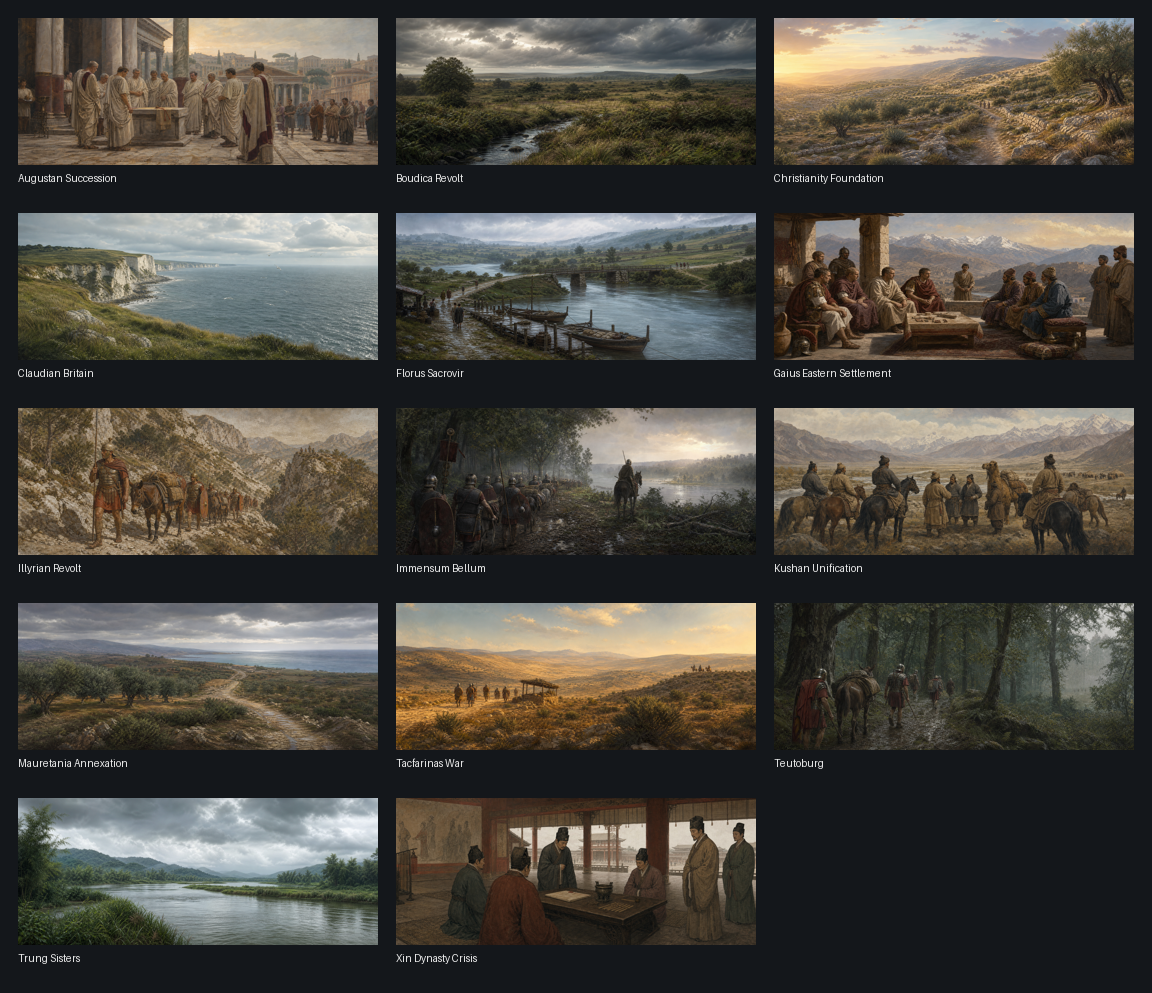
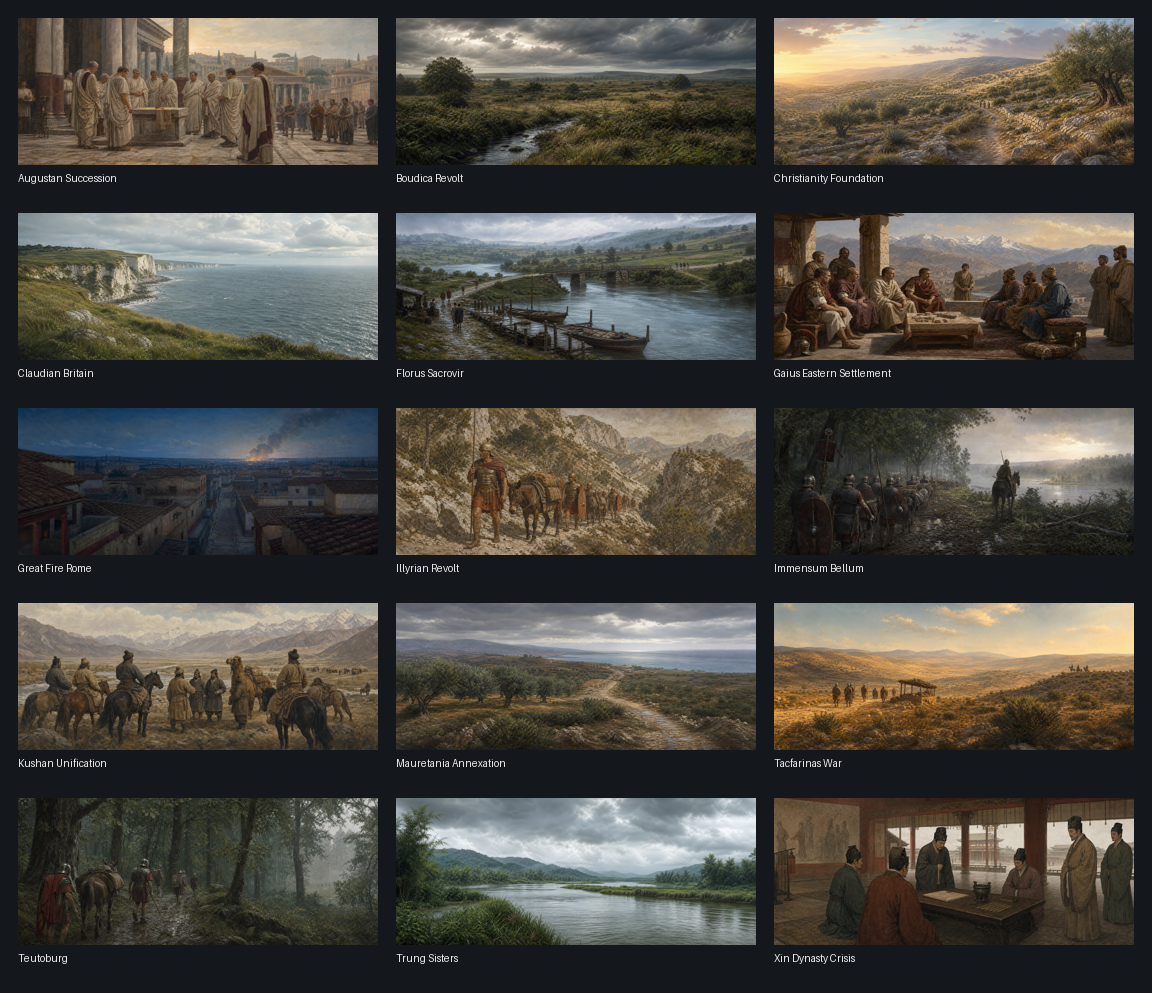
docs(m11): record great fire art

diff --git a/docs/m11/contact_sheet.html b/docs/m11/contact_sheet.html
@@ -6,6 +6,7 @@
     <figure><img src="../../assets_queue/generated/antq_claudian_britain_1080x440.png" alt="Claudian Britain"><figcaption>Claudian Britain</figcaption></figure>
     <figure><img src="../../assets_queue/generated/antq_florus_sacrovir_1080x440.png" alt="Florus Sacrovir"><figcaption>Florus Sacrovir</figcaption></figure>
     <figure><img src="../../assets_queue/generated/antq_gaius_eastern_settlement_1080x440.png" alt="Gaius Eastern Settlement"><figcaption>Gaius Eastern Settlement</figcaption></figure>
+    <figure><img src="../../assets_queue/generated/antq_great_fire_rome_1080x440.png" alt="Great Fire Rome"><figcaption>Great Fire Rome</figcaption></figure>
     <figure><img src="../../assets_queue/generated/antq_illyrian_revolt_1080x440.png" alt="Illyrian Revolt"><figcaption>Illyrian Revolt</figcaption></figure>
     <figure><img src="../../assets_queue/generated/antq_immensum_bellum_1080x440.png" alt="Immensum Bellum"><figcaption>Immensum Bellum</figcaption></figure>
     <figure><img src="../../assets_queue/generated/antq_kushan_unification_1080x440.png" alt="Kushan Unification"><figcaption>Kushan Unification</figcaption></figure>

diff --git a/docs/m11/M11_GREAT_FIRE_ROME_ART.md b/docs/m11/M11_GREAT_FIRE_ROME_ART.md
@@ -1,0 +1,27 @@
+# M11 Great Fire of Rome illustration
+
+## Asset and scope
+
+The retained source is
+`assets_queue/generated_sources/antq_great_fire_rome_source.png`; its exact
+1080x440 derivative is `assets_queue/generated/antq_great_fire_rome_1080x440.png`.
+The game-facing BC7 DDS is
+`main_menu/gfx/interface/illustrations/event/antq_great_fire_rome.dds`.
+
+The text-free image is a non-literal early-imperial cityscape at dusk: modest
+plaster-and-brick buildings and tiled roofs frame an empty street, while a
+small distant smoke column and firelight signal an urban emergency. It names no
+neighbourhood, monument, emperor, official, cause, response, victim, action,
+course, or outcome. Review excluded people, corpses, soldiers, animals,
+specific later monuments (including the Colosseum), religious spectacle,
+fantasy architecture, modern material, labels, logos, and readable writing.
+
+## Engine verification
+
+`EVENT_IMAGES` in `tools/m10_history.py` owns the `antq_m10.1017` image link.
+The texture follows the inspected 1080x440 BC7 country-event form, was
+round-tripped to PNG for visual review, and passed `make validate` plus
+enabled-mod `make smoke` with zero new error-log lines.
+
+Sources: ANTIQVITAS master plan sections 8.1, 9, and 20; local EU5
+country-event image contract.

diff --git a/docs/TODO.md b/docs/TODO.md
@@ -201,7 +201,8 @@ after `make full` and its autonomous driver report are green.
 - [x] Generate, dimension-check, round-trip review, wire, and smoke-test the AD 40 Mauretania Annexation event illustration through a non-literal coastal landscape treatment.
 - [x] Generate, dimension-check, round-trip review, wire, and smoke-test the AD 43 Claudian Invasion of Britain event illustration through a landscape-only Channel-coast treatment.
 - [x] Generate, dimension-check, round-trip review, wire, and smoke-test the AD 60 Boudica's Revolt event illustration through a landscape-only eastern-Britain treatment.
-- [x] Render and review the maintained M11 event-art contact sheet (14 retained 1080x440 masters).
+- [x] Generate, dimension-check, round-trip review, wire, and smoke-test the AD 64 Great Fire of Rome event illustration through a restrained non-literal urban context treatment.
+- [x] Render and review the maintained M11 event-art contact sheet (15 retained 1080x440 masters).
 - [ ] Reach event/decision targets; finish flags, icons, illustrations, loading/age art, localization, glossary, and credits.
 - [ ] Remove common-screen placeholders; run milestone gate and tag `M11-done`.
 

diff --git a/docs/ASSUMPTIONS.md b/docs/ASSUMPTIONS.md
@@ -1,5 +1,16 @@
 # Historical Assumptions
 
+## 2026-07-20 - Great-Fire art is a non-literal AD 64 urban context
+
+The image shows a restrained early-imperial cityscape at dusk: ordinary
+plaster-and-brick buildings, tiled roofs, an empty street, and only distant
+smoke and firelight. It identifies no neighbourhood, monument, emperor,
+official, cause, response, victim, action, course, or outcome. It deliberately
+excludes people, bodily harm, specific later monuments (including the
+Colosseum), religious spectacle, and a claim to reconstruct the AD 64 fire.
+Sources weighed: P8.1; plan sections 9 and 20. [secure current context;
+illustrative composition only]
+
 ## 2026-07-20 - Boudica-revolt art is a generic eastern-British context
 
 The image is a generic first-century eastern-British lowland with stream,

diff --git a/docs/PROGRESS.md b/docs/PROGRESS.md
@@ -1,5 +1,16 @@
 # Progress
 
+## 2026-07-20 - M11 Great Fire of Rome event illustration
+
+- Added a reviewed, non-literal early-imperial urban dusk image to the AD 64
+  Great Fire of Rome current through the generated event-image contract.
+- The engine-sized BC7 texture was round-trip inspected; `make validate` and
+  enabled-mod smoke are green with zero new error-log lines. The maintained
+  M11 contact sheet now has fifteen retained event masters.
+
+Next: continue the independent M11 art queue and source-led M5/M6 audit while
+runtime-gated milestone checks remain deferred.
+
 ## 2026-07-20 - M11 event-art contact sheet
 
 - Added a deterministic `art-review` target that renders the HTML and PNG

diff --git a/docs/m11/M11_CONTACT_SHEET.md b/docs/m11/M11_CONTACT_SHEET.md
@@ -5,7 +5,7 @@ every retained `assets_queue/generated/antq_*_1080x440.png` master. The HTML
 is the browsable review surface; the PNG is the compact visual record suitable
 for inclusion in the M11 milestone report.
 
-The first review contains fourteen 1080x440 event masters. It was inspected for
+The current review contains fifteen 1080x440 event masters. It was inspected for
 omissions, clipped labels, incorrect aspect ratios, readable text, watermarks,
 or obvious anachronistic material. Individual asset records retain the more
 specific historical-scope findings and engine checks.
